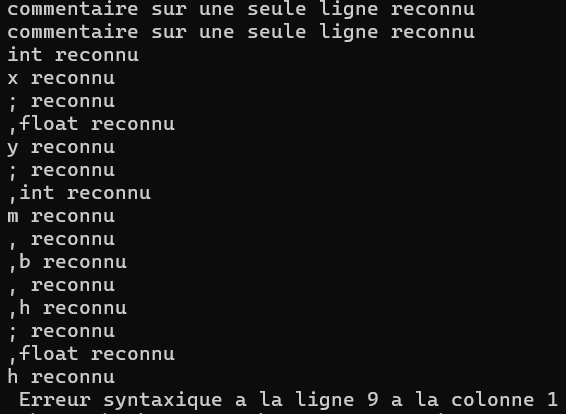
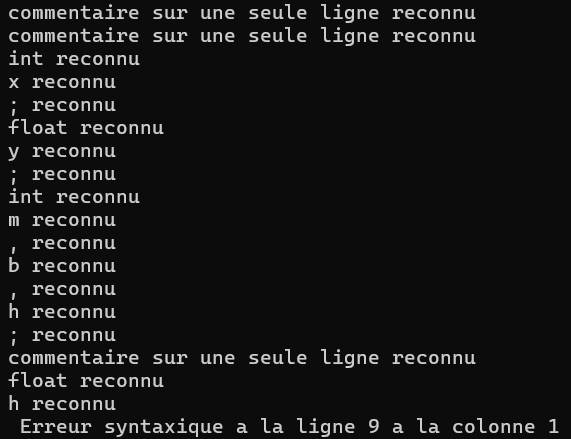
new v

diff --git a/L3-ING-Software/Analyse Syntaxique/Exemple 2/syn.tab.c b/L3-ING-Software/Analyse Syntaxique/Exemple 2/syn.tab.c
@@ -408,7 +408,7 @@ static const yytype_int8 yyrhs[] =
 /* YYRLINE[YYN] -- source line where rule number YYN was defined.  */
 static const yytype_uint8 yyrline[] =
 {
-       0,     9,     9,    11,    11,    12,    13,    14,    16,    17
+       0,     9,     9,    11,    12,    14,    15,    16,    18,    19
 };
 #endif
 
@@ -1529,7 +1529,7 @@ yyreturn:
 
 
 /* Line 1675 of yacc.c  */
-#line 20 "syn.y"
+#line 22 "syn.y"
 
 main ()
 {

diff --git a/L3-ING-Software/Analyse Syntaxique/Exemple 2/lex.yy.c b/L3-ING-Software/Analyse Syntaxique/Exemple 2/lex.yy.c
@@ -631,7 +631,7 @@ YY_RULE_SETUP
 case 4:
 YY_RULE_SETUP
 #line 15 "lex.l"
-{col=col+yyleng; printf("%s reconnu\n,",yytext);return yytext[0];}
+{col=col+yyleng; printf("%s reconnu\n",yytext); return yytext[0];}
 	YY_BREAK
 case 5:
 YY_RULE_SETUP
